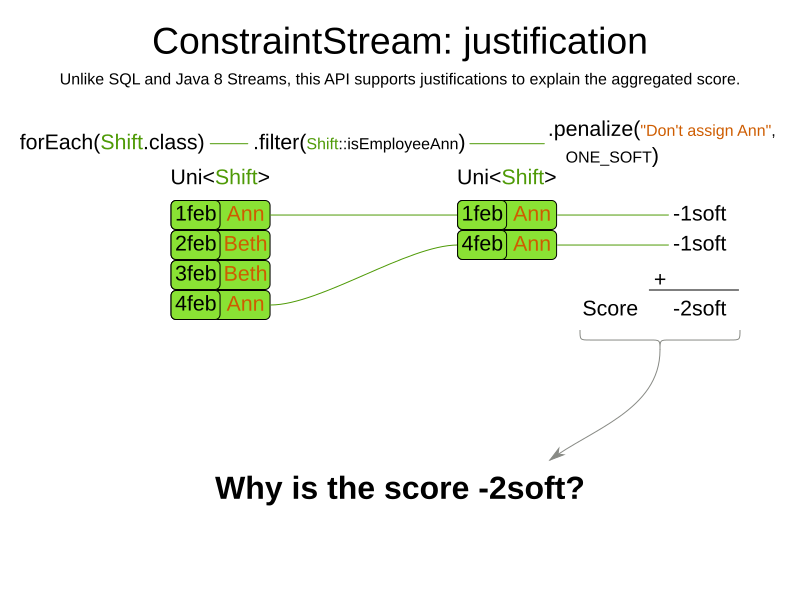
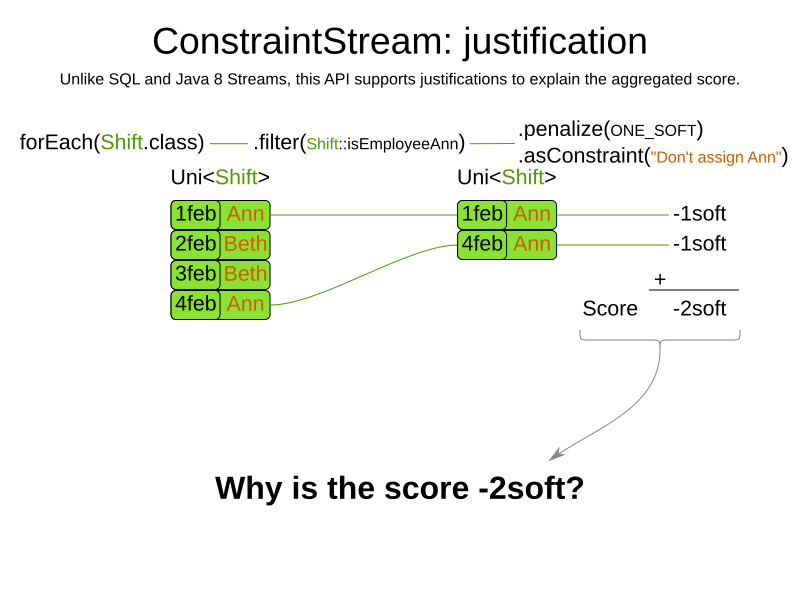
PLANNER-1709 Reworked constraint justifications

Changed region(s): [[0.6562, 0.18, 1.0, 0.27]]

diff --git a/optaplanner-website-root/assets/learn/slides/optaplanner-presentation/training.html b/optaplanner-website-root/assets/learn/slides/optaplanner-presentation/training.html
@@ -3059,12 +3059,12 @@ public class Talk {
 
 }</code></pre>
             <pre xml:space="preserve"><code class="java">  Constraint publishedTimeslot(ConstraintFactory f) {
-    return f.from(Talk.class)
+    return f.forEach(Talk.class)
         .filter(talk -> talk.getPublishedTimeslot() != null
             && talk.getTimeslot()
                 != talk.getPublishedTimeslot())
-        .penalize(PUBLISHED_TIMESLOT,
-          HardMediumSoft.ONE_MEDIUM);
+        .penalize(HardMediumSoft.ONE_MEDIUM)
+                .asConstraint(PUBLISHED_TIMESLOT);
   }</code></pre>
         </section>
         <section>
